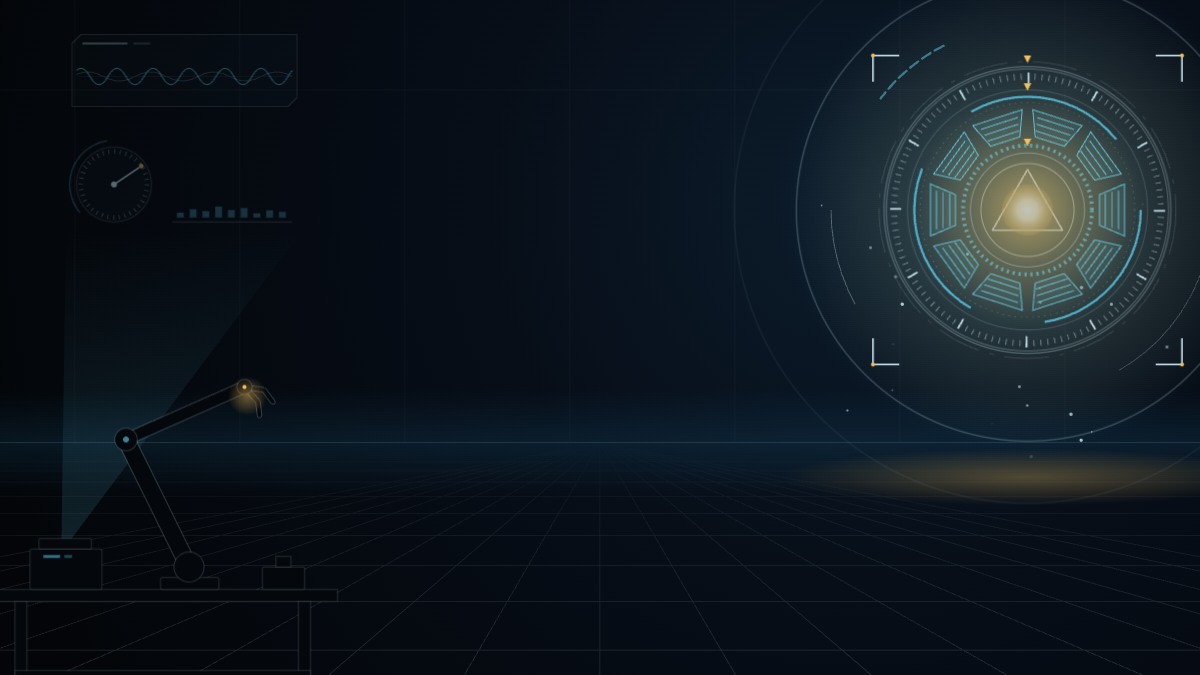
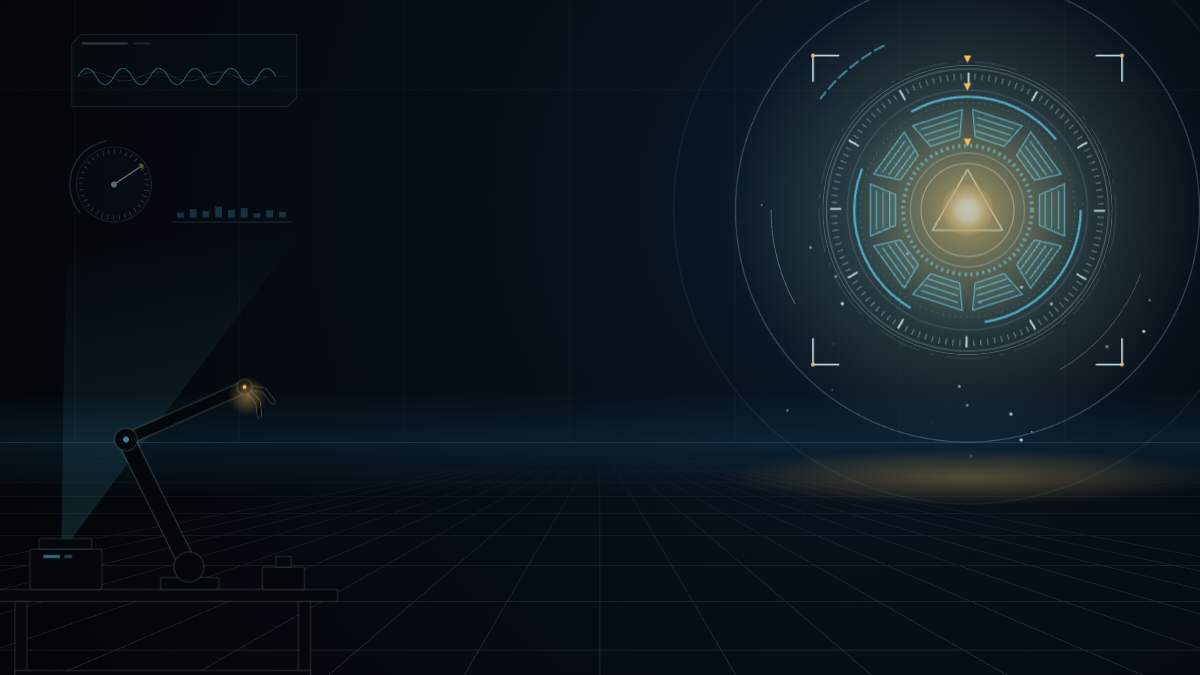
stark-lab: the scene keeps to the CSS the desktop app animates

diff --git a/mods/stark-lab/hooks/scene/panels.ts b/mods/stark-lab/hooks/scene/panels.ts
@@ -1,6 +1,6 @@
 // The holographic panels: a waveform, a dial and a bank of level bars floating high on
 // the left, and thin arcs orbiting the reactor. Abstract shapes, no text. Live, the wave
-// ripples, the needle sweeps and the bars jump; hushed, they dim and hold, the needle
+// swells, the needle sweeps and the bars jump; hushed, they dim and hold, the needle
 // resting in the gold.
 
 import { CYAN, GOLD, ICE, point, polar, type Part } from './layout.js'
@@ -9,10 +9,11 @@ import { CYAN, GOLD, ICE, point, polar, type Part } from './layout.js'
 const frame = (x: number, y: number, w: number, h: number) =>
   `<path d="M${x + 12},${y} L${x + w},${y} L${x + w},${y + h - 12} L${x + w - 12},${y + h} L${x},${y + h} L${x},${y + 12} Z"/>`
 
-// A wave of the given period and height, long enough to slide one period and still fill.
+// A wave of the given period and height, from x across to at most x + w. It stays in its
+// panel by never moving sideways: it swells and flips about its midline instead.
 function wave(x: number, y: number, w: number, period: number, height: number): string {
-  let d = `M${x - period},${y} Q${x - period * 0.75},${y - height} ${x - period / 2},${y}`
-  for (let px = x; px <= x + w + period; px += period / 2) d += ` T${px},${y}`
+  let d = `M${x},${y} Q${x + period / 4},${y - height} ${x + period / 2},${y}`
+  for (let px = x + period; px <= x + w; px += period / 2) d += ` T${px},${y}`
   return d
 }
 
@@ -20,18 +21,19 @@ const WAVE = { x: 96, y: 96, w: 300, h: 96 }
 const DIAL = { x: 152, y: 296, r: 50 }
 const BARS = { x: 236, y: 340, count: 9, heights: [26, 44, 34, 58, 40, 50, 22, 38, 30] }
 
+const WAVE_MID = WAVE.y + WAVE.h / 2 + 8
+
 function wavePanel(): string {
   const { x, y, w, h } = WAVE
-  const mid = y + h / 2 + 8
+  const mid = WAVE_MID
   return (
-    `<clipPath id="waveClip"><rect x="${x + 6}" y="${y + 22}" width="${w - 12}" height="${h - 28}"/></clipPath>` +
     `<g fill="${CYAN}" fill-opacity="0.035" stroke="${ICE}" stroke-opacity="0.32" stroke-width="1">${frame(x, y, w, h)}</g>` +
     `<line x1="${x + 14}" y1="${y + 12}" x2="${x + 74}" y2="${y + 12}" stroke="${ICE}" stroke-opacity="0.5" stroke-width="3"/>` +
     `<line x1="${x + 82}" y1="${y + 12}" x2="${x + 104}" y2="${y + 12}" stroke="${ICE}" stroke-opacity="0.25" stroke-width="3"/>` +
     `<line x1="${x + 8}" y1="${mid}" x2="${x + w - 8}" y2="${mid}" stroke="${ICE}" stroke-opacity="0.12"/>` +
-    `<g clip-path="url(#waveClip)" fill="none">` +
-    `<path class="wave" d="${wave(x, mid, w, 48, 22)}" stroke="${CYAN}" stroke-opacity="0.85" stroke-width="1.5"/>` +
-    `<path class="wave2" d="${wave(x, mid, w, 84, 12)}" stroke="${ICE}" stroke-opacity="0.35" stroke-width="1"/></g>`
+    `<g fill="none">` +
+    `<path class="wave" d="${wave(x + 8, mid, w - 16, 48, 22)}" stroke="${CYAN}" stroke-opacity="0.85" stroke-width="1.5"/>` +
+    `<path class="wave2" d="${wave(x + 8, mid, w - 16, 84, 12)}" stroke="${ICE}" stroke-opacity="0.35" stroke-width="1"/></g>`
   )
 }
 
@@ -39,7 +41,7 @@ function wavePanel(): string {
 const REST_DEG = 56
 const GOLD_MARK = point(DIAL.r - 6, REST_DEG - 90)
 
-function dialPanel(): string {
+function dialPanel(live: boolean): string {
   const { x, y, r } = DIAL
   const circ = 2 * Math.PI * (r - 6)
   return (
@@ -48,15 +50,15 @@ function dialPanel(): string {
     `<circle cx="${x}" cy="${y}" r="${r - 6}" stroke-opacity="0.5" stroke-width="6" stroke-dasharray="1 ${(circ / 36 - 1).toFixed(3)}"/>` +
     `<circle cx="${x}" cy="${y}" r="${r + 9}" stroke="${CYAN}" stroke-opacity="0.4" stroke-width="2" stroke-dasharray="${(circ * 0.45).toFixed(1)} ${circ}" transform="rotate(140 ${x} ${y})"/></g>` +
     `<circle cx="${x + GOLD_MARK[0]}" cy="${y + GOLD_MARK[1]}" r="3" fill="${GOLD}"/>` +
-    `<g class="needle"><line x1="${x}" y1="${y}" x2="${x}" y2="${y - r + 10}" stroke="${ICE}" stroke-width="2" stroke-linecap="round"/></g>` +
+    `<g class="needle"${live ? '' : ` transform="rotate(${REST_DEG} ${x} ${y})"`}><line x1="${x}" y1="${y}" x2="${x}" y2="${y - r + 10}" stroke="${ICE}" stroke-width="2" stroke-linecap="round"/></g>` +
     `<circle cx="${x}" cy="${y}" r="4" fill="${ICE}"/>`
   )
 }
 
-function barsPanel(): string {
+function barsPanel(live: boolean): string {
   const { x, y, heights } = BARS
   const bars = heights
-    .map((h, n) => `<rect class="bar" x="${x + n * 17}" y="${y - h}" width="9" height="${h}" style="animation-duration:${(0.7 + ((n * 37) % 11) / 10).toFixed(1)}s;animation-delay:-${((n * 53) % 9) / 10}s"/>`)
+    .map((h, n) => `<rect class="bar" x="${x + n * 17}" y="${y - h}" width="9" height="${h}"${live ? '' : ` transform="translate(0 ${y * 0.75}) scale(1 .25)"`} style="animation-duration:${(0.7 + ((n * 37) % 11) / 10).toFixed(1)}s;animation-delay:-${((n * 53) % 9) / 10}s"/>`)
     .join('')
   return (
     `<g fill="${CYAN}" fill-opacity="0.5">${bars}</g>` +
@@ -75,20 +77,18 @@ export type Panels = Part & { orbit: string }
 
 export function panels(live: boolean): Panels {
   const css = live
-    ? '.wave{animation:slide 1.4s linear infinite}.wave2{animation:slide2 2.6s linear infinite}' +
-      '@keyframes slide{from{transform:translateX(0px)}to{transform:translateX(-48px)}}' +
-      '@keyframes slide2{from{transform:translateX(0px)}to{transform:translateX(-84px)}}' +
+    ? `.wave,.wave2{transform-origin:0px ${WAVE_MID}px}.wave{animation:swell 2.4s ease-in-out infinite alternate}.wave2{animation:swell 3.6s ease-in-out infinite alternate}` +
+      '@keyframes swell{from{transform:scaleY(1)}to{transform:scaleY(-1)}}' +
       `.needle{transform-origin:${DIAL.x}px ${DIAL.y}px;animation:needle 3.4s ease-in-out infinite alternate}` +
       '@keyframes needle{from{transform:rotate(-120deg)}to{transform:rotate(60deg)}}' +
       '.bar{transform-box:fill-box;transform-origin:50% 100%;animation:level 1s ease-in-out infinite alternate}' +
       '@keyframes level{from{transform:scaleY(1)}to{transform:scaleY(.3)}}'
-    : // Hushed: the needle rests on the gold mark.
-      `.needle{transform-origin:${DIAL.x}px ${DIAL.y}px;transform:rotate(${REST_DEG}deg)}.bar{transform-box:fill-box;transform-origin:50% 100%;transform:scaleY(.25)}`
+    : '' // Hushed: the needle and bars rest where their markup puts them.
   return {
     defs: '',
     css,
     animated: ['.wave', '.wave2', '.needle', '.bar'],
-    svg: `<g opacity="${live ? 0.9 : 0.4}">${wavePanel()}${dialPanel()}${barsPanel()}</g>`,
+    svg: `<g opacity="${live ? 0.9 : 0.4}">${wavePanel()}${dialPanel(live)}${barsPanel(live)}</g>`,
     orbit: ORBIT,
   }
 }

diff --git a/mods/stark-lab/hooks/scene/reactor.ts b/mods/stark-lab/hooks/scene/reactor.ts
@@ -4,7 +4,7 @@
 // top) and the core flares from cyan to gold. Pure: the same seed locks the same way.
 //
 // The gold glow is a large animated element (a circle of r=320, fading its opacity in
-// once). It is not full-size and never moves. It has only been played in Chrome so far.
+// once). It is not full-size and never moves.
 
 import { CYAN, GOLD, GOLD_HOT, HAZE, ICE, polar, seedKey, type Part } from './layout.js'
 import { seeded } from './random.js'
@@ -102,8 +102,9 @@ function rings(mark: string): string {
 function spinning(): Part {
   const css =
     PIVOT +
-    RINGS.map(ring => `.${ring.name}{animation:spin ${Math.abs(ring.turn)}s linear infinite${ring.turn < 0 ? ' reverse' : ''}}`).join('') +
+    RINGS.map(ring => `.${ring.name}{animation:${ring.turn < 0 ? 'spinBack' : 'spin'} ${Math.abs(ring.turn)}s linear infinite}`).join('') +
     '@keyframes spin{from{transform:rotate(0deg)}to{transform:rotate(360deg)}}' +
+    '@keyframes spinBack{from{transform:rotate(0deg)}to{transform:rotate(-360deg)}}' +
     '.core{animation:breathe 4.2s ease-in-out infinite}' +
     '@keyframes breathe{0%,100%{opacity:.62}50%{opacity:1}}'
   const svg =
@@ -112,7 +113,8 @@ function spinning(): Part {
   return { defs: DEFS, css, animated: ANIMATED, svg }
 }
 
-// Locked: each ring spins down from its own angle to rest; then cyan gives way to gold.
+// Locked: each ring spins down from its own angle to rest (its markup is the rest, so the
+// keyframes only say where it starts); then cyan gives way to gold.
 function locking(seed: number): Part {
   const r = seeded(seed)
   const k = seedKey('l', seed)
@@ -121,10 +123,11 @@ function locking(seed: number): Part {
     const from = Math.sign(ring.turn) * -r.pick(150, 320)
     css +=
       `@keyframes ${k}${ring.name}{from{transform:rotate(${from.toFixed(0)}deg)}to{transform:rotate(0deg)}}` +
-      `.${ring.name}{animation:${k}${ring.name} ${(LOCK_S * r.pick(0.8, 1)).toFixed(2)}s ease-out 1 forwards}`
+      `.${ring.name}{animation:${k}${ring.name} ${(LOCK_S * r.pick(0.8, 1)).toFixed(2)}s ease-out 1}`
   }
   css +=
-    `.cool{animation:cool .5s ease-in ${LOCK_S - 0.2}s 1 forwards}` +
+    // Opacity only, so `both` holds the cyan core gone once it has faded.
+    `.cool{animation:cool .5s ease-in ${LOCK_S - 0.2}s 1 both}` +
     '@keyframes cool{from{opacity:1}to{opacity:0}}' +
     // `both` keeps the gold hidden until it flares, yet with reduced motion it simply shows.
     `.hot{animation:heat .6s ease-out ${LOCK_S - 0.2}s 1 both}` +
@@ -136,7 +139,8 @@ function locking(seed: number): Part {
     `<g fill="none">${rings(GOLD)}</g>` +
     `<g class="cool">${core('cyanDisc', 'cyanGlow', ICE, 96)}</g>` +
     `<g class="hot"><g class="throb">${core('goldDisc', 'goldGlow', GOLD_HOT, 150)}</g></g>`
-  return { defs: DEFS, css, animated: ANIMATED, svg }
+  // With reduced motion nothing fades, so the cyan core is put away by hand: only gold shows.
+  return { defs: DEFS, css, animated: ANIMATED, still: '.cool{opacity:0}', svg }
 }
 
 // No seed: the working reactor. A seed: the one that locks for this burst.

diff --git a/mods/stark-lab/hooks/scene/target.ts b/mods/stark-lab/hooks/scene/target.ts
@@ -1,10 +1,9 @@
 // The lock-on, round the reactor when Claude needs you: four corner brackets close in as
 // if targeting, then rings leave the reactor like a ping, one after another. Centred on 0,0.
 //
-// Desktop limit: a ping grows with scale() on a ring that never moves, and fades with
-// its own opacity; nothing here animates a full-size element. The pings are still large
-// animated elements (a circle of r=200 scaled in place to 2.1, looping), and have only
-// been played in Chrome so far.
+// Desktop limit: the brackets rest where they close and animate only from their offset;
+// a ping scales a ring in place (its stroke scales with it) and fades it. Nothing here
+// animates a full-size element, uses a fill mode or a custom easing.
 
 import { GOLD, ICE, type Part } from './layout.js'
 
@@ -36,24 +35,24 @@ const PING_S = 4.2
 // `after` is when the pings start, in seconds: once the reactor has locked.
 export function target(after: number): Part {
   let css =
-    '.bracket{animation-duration:1.5s;animation-timing-function:ease-out;animation-iteration-count:1;animation-fill-mode:forwards}' +
     `.brackets{animation:hold 3.2s ease-in-out ${after + 1}s infinite}` +
     '@keyframes hold{0%,100%{opacity:1}50%{opacity:.45}}' +
     '.ping{opacity:0;transform-origin:0 0}' +
     '@keyframes ping{0%{transform:scale(.85);opacity:0}12%{opacity:.75}100%{transform:scale(2.1);opacity:0}}'
   for (const [name, dx, dy] of CORNERS) {
+    // No `to`: the bracket's own markup is where it ends.
     css +=
-      `@keyframes c${name}{from{transform:translate(${dx * OPEN}px,${dy * OPEN}px);opacity:0}to{transform:translate(0px,0px);opacity:1}}` +
-      `.${name}{animation-name:c${name}}`
+      `@keyframes c${name}{from{transform:translate(${dx * OPEN}px,${dy * OPEN}px);opacity:0}}` +
+      `.${name}{animation:c${name} 1.5s ease-out 1}`
   }
   let pings = ''
   for (let n = 0; n < PINGS; n++) {
     css += `.p${n}{animation:ping ${PING_S}s ease-out ${(after + (n * PING_S) / PINGS).toFixed(2)}s infinite}`
-    pings += `<circle class="ping p${n}" r="200" vector-effect="non-scaling-stroke"/>`
+    pings += `<circle class="ping p${n}" r="200"/>`
   }
   const svg =
     `<g class="target" fill="none" stroke="${ICE}">` +
-    `<g stroke-opacity="0.55" stroke-width="1.4">${pings}</g>` +
+    `<g stroke-opacity="0.55" stroke-width="1">${pings}</g>` +
     `<g class="brackets" stroke-width="2.2" stroke-linecap="square">${CORNERS.map(bracket).join('')}</g></g>`
   return { defs: '', css, animated: ['.bracket', '.brackets', '.ping'], svg }
 }

diff --git a/mods/stark-lab/hooks/scene/layout.ts b/mods/stark-lab/hooks/scene/layout.ts
@@ -1,33 +1,9 @@
 // Where things sit in the 1600 x 1000 scene, and the colors every part draws with.
 
-// The reactor's centre, right of the chat column and above the message box.
-export const REACTOR = { x: 1370, y: 330 }
-
-// How far right of its centre the reactor draws (the outer arc; brackets reach 206),
-// at full size, and the gap it keeps from the frame's edge.
-const REACH = 232
-const MARGIN = 8
-
-// With xMidYMid slice, a frame of aspect A (width / height, under 1.6) shows x from
-// 800 - 500A to 800 + 500A. So in a band of aspects down to `lower`, the reactor at a
-// given scale stays whole when x + REACH * scale <= 800 + 500 * lower - MARGIN, and each
-// step's x is exactly that. Steps run widest first; the scene's own spot needs 1.6.
-type Step = { below: [number, number]; lower: number; y: number; scale: number }
-const BANDS: Step[] = [
-  { below: [8, 5], lower: 1.5, y: 300, scale: 0.85 },
-  { below: [3, 2], lower: 1.3, y: 250, scale: 0.7 },
-  { below: [13, 10], lower: 1, y: 225, scale: 0.6 },
-  // Down to a phone held upright.
-  { below: [1, 1], lower: 0.45, y: 215, scale: 0.62 },
-]
-
-// Where the reactor's centre lands below each aspect, and its size.
-export const PLACES = BANDS.map(({ below, lower, y, scale }) => ({
-  below: `${below[0]}/${below[1]}`,
-  x: Math.floor(800 + 500 * lower - REACH * scale - MARGIN),
-  y,
-  scale,
-}))
+// The reactor's centre, right of the chat column and above the message box. The whole rig
+// (outer arc 232 out, brackets 206) stays inside the frame down to an aspect of 1.45: a
+// frame of aspect A shows x up to 800 + 500A, so the centre sits at 1525 - 232 or less.
+export const REACTOR = { x: 1290, y: 330 }
 
 // Where the floor meets the back wall, and the point the floor grid runs to.
 export const HORIZON = 640
@@ -55,5 +31,6 @@ export const polar = (r: number, deg: number) => point(r, deg).join(',')
 export const seedKey = (prefix: string, seed: number) => `${prefix}${(seed % 46656).toString(36)}`
 
 // What every part hands the scene: its gradients, its CSS, the classes that CSS animates
-// (for the scene's one reduced-motion rule) and its drawing.
-export type Part = { defs: string; css: string; animated: string[]; svg: string }
+// (for the scene's one reduced-motion rule), any CSS only reduced motion adds (`still`) and
+// its drawing.
+export type Part = { defs: string; css: string; animated: string[]; still?: string; svg: string }

diff --git a/mods/stark-lab/hooks/scene/index.ts b/mods/stark-lab/hooks/scene/index.ts
@@ -6,7 +6,7 @@
 
 import type { Signal } from '../../types'
 import { lab } from './lab.js'
-import { PLACES, REACTOR, type Part } from './layout.js'
+import { REACTOR, type Part } from './layout.js'
 import { motes } from './motes.js'
 import { panels } from './panels.js'
 import { LOCK_S, reactor } from './reactor.js'
@@ -14,18 +14,6 @@ import { sparks } from './sparks.js'
 import { target } from './target.js'
 
 const MOTES = motes(7)
-
-// The reactor and all that hangs round it move as one rig. In a narrower box the rig
-// steps up and in (layout.ts says where), so it stays whole and clear of the message
-// box. Off its spot the reactor no longer stands over the floor, so its pool of light goes.
-
-function placed(x: number, y: number, scale: number): string {
-  const tx = x - REACTOR.x * scale
-  const ty = y - REACTOR.y * scale
-  return `.rig{transform:translate(${tx.toFixed(1)}px,${ty.toFixed(1)}px) scale(${scale})}.pool{display:none}`
-}
-
-const PLACEMENT = PLACES.map(s => `@media (max-aspect-ratio: ${s.below}){${placed(s.x, s.y, s.scale)}}`).join('')
 
 function build(burst?: number): string {
   const live = burst === undefined
@@ -45,22 +33,21 @@ function build(burst?: number): string {
   ${parts.map(p => p.defs).join('')}
 </defs>
 <style>
-  .rig { transform-origin: 0 0; }
-  ${PLACEMENT}
   ${parts.map(p => p.css).join('\n  ')}
   @media (prefers-reduced-motion: reduce) {
     ${[...new Set(parts.flatMap(p => p.animated))].join(', ')} { animation: none; }
+    ${parts.map(p => p.still ?? '').join('')}
   }
 </style>
 <rect width="1600" height="1000" fill="url(#room)"/>
 ${room.back.svg}
 ${hud.svg}
-<g class="rig"><g transform="translate(${REACTOR.x} ${REACTOR.y})">
+<g transform="translate(${REACTOR.x} ${REACTOR.y})">
 ${hud.orbit}
 ${core.svg}
 ${lock.map(p => p.svg).join('\n')}
 ${MOTES.svg}
-</g></g>
+</g>
 ${room.front}
 </svg>`
 }

diff --git a/mods/stark-lab/tests/look.test.ts b/mods/stark-lab/tests/look.test.ts
@@ -188,3 +188,21 @@ test('each scene has one reduced-motion rule, stilling every animated class', as
     }
   }
 })
+
+test('the stylesheet stays inside what the desktop app animates', async ($, on) => {
+  // Outside @keyframes, no rule may declare a transform: placing is done with attributes.
+  const staticTransforms = (css: string): string[] =>
+    blocks(css).flatMap(([prelude, body]) =>
+      prelude.startsWith('@keyframes') ? [] : prelude.startsWith('@') ? staticTransforms(body) : /(^|[;\s])transform\s*:/.test(body) ? [prelude] : [])
+  for (const scene of await bothScenes($, on)) {
+    const css = styleOf(scene)
+    expect(css.match(/@media/g)?.length).toBe(1)
+    for (const banned of ['forwards', 'backwards', 'cubic-bezier', 'vector-effect', 'clip-path', 'animation-fill-mode', 'animation-name', 'animation-iteration-count', 'animation-timing-function']) {
+      expect([banned, css.includes(banned)]).toEqual([banned, false])
+    }
+    expect(/\breverse\b/.test(css)).toBe(false)
+    expect(scene).not.toContain('clipPath')
+    for (const m of css.matchAll(/steps\(/g)) expect(css.slice(m.index, m.index! + 8)).toBe('steps(1)')
+    expect(staticTransforms(css)).toEqual([])
+  }
+})

diff --git a/mods/stark-lab/hooks/scene/lab.ts b/mods/stark-lab/hooks/scene/lab.ts
@@ -33,9 +33,8 @@ function wall(): string {
 const CONE = `<polygon points="82,770 94,770 404,356 88,356" fill="url(#cone)"/>`
 
 // The reactor's light pooled on the floor below it: cyan at work, gold when it calls.
-// The scene hides it (class "pool") wherever the reactor moves off its spot.
 const pool = (live: boolean) =>
-  `<ellipse class="pool" cx="${REACTOR.x}" cy="${HORIZON + 46}" rx="330" ry="38" fill="url(#${live ? 'poolCyan' : 'poolGold'})"/>`
+  `<ellipse cx="${REACTOR.x}" cy="${HORIZON + 46}" rx="330" ry="38" fill="url(#${live ? 'poolCyan' : 'poolGold'})"/>`
 
 // The scan line and the soft wash trailing it, at the horizon; the keyframes carry it down.
 const SCAN =
